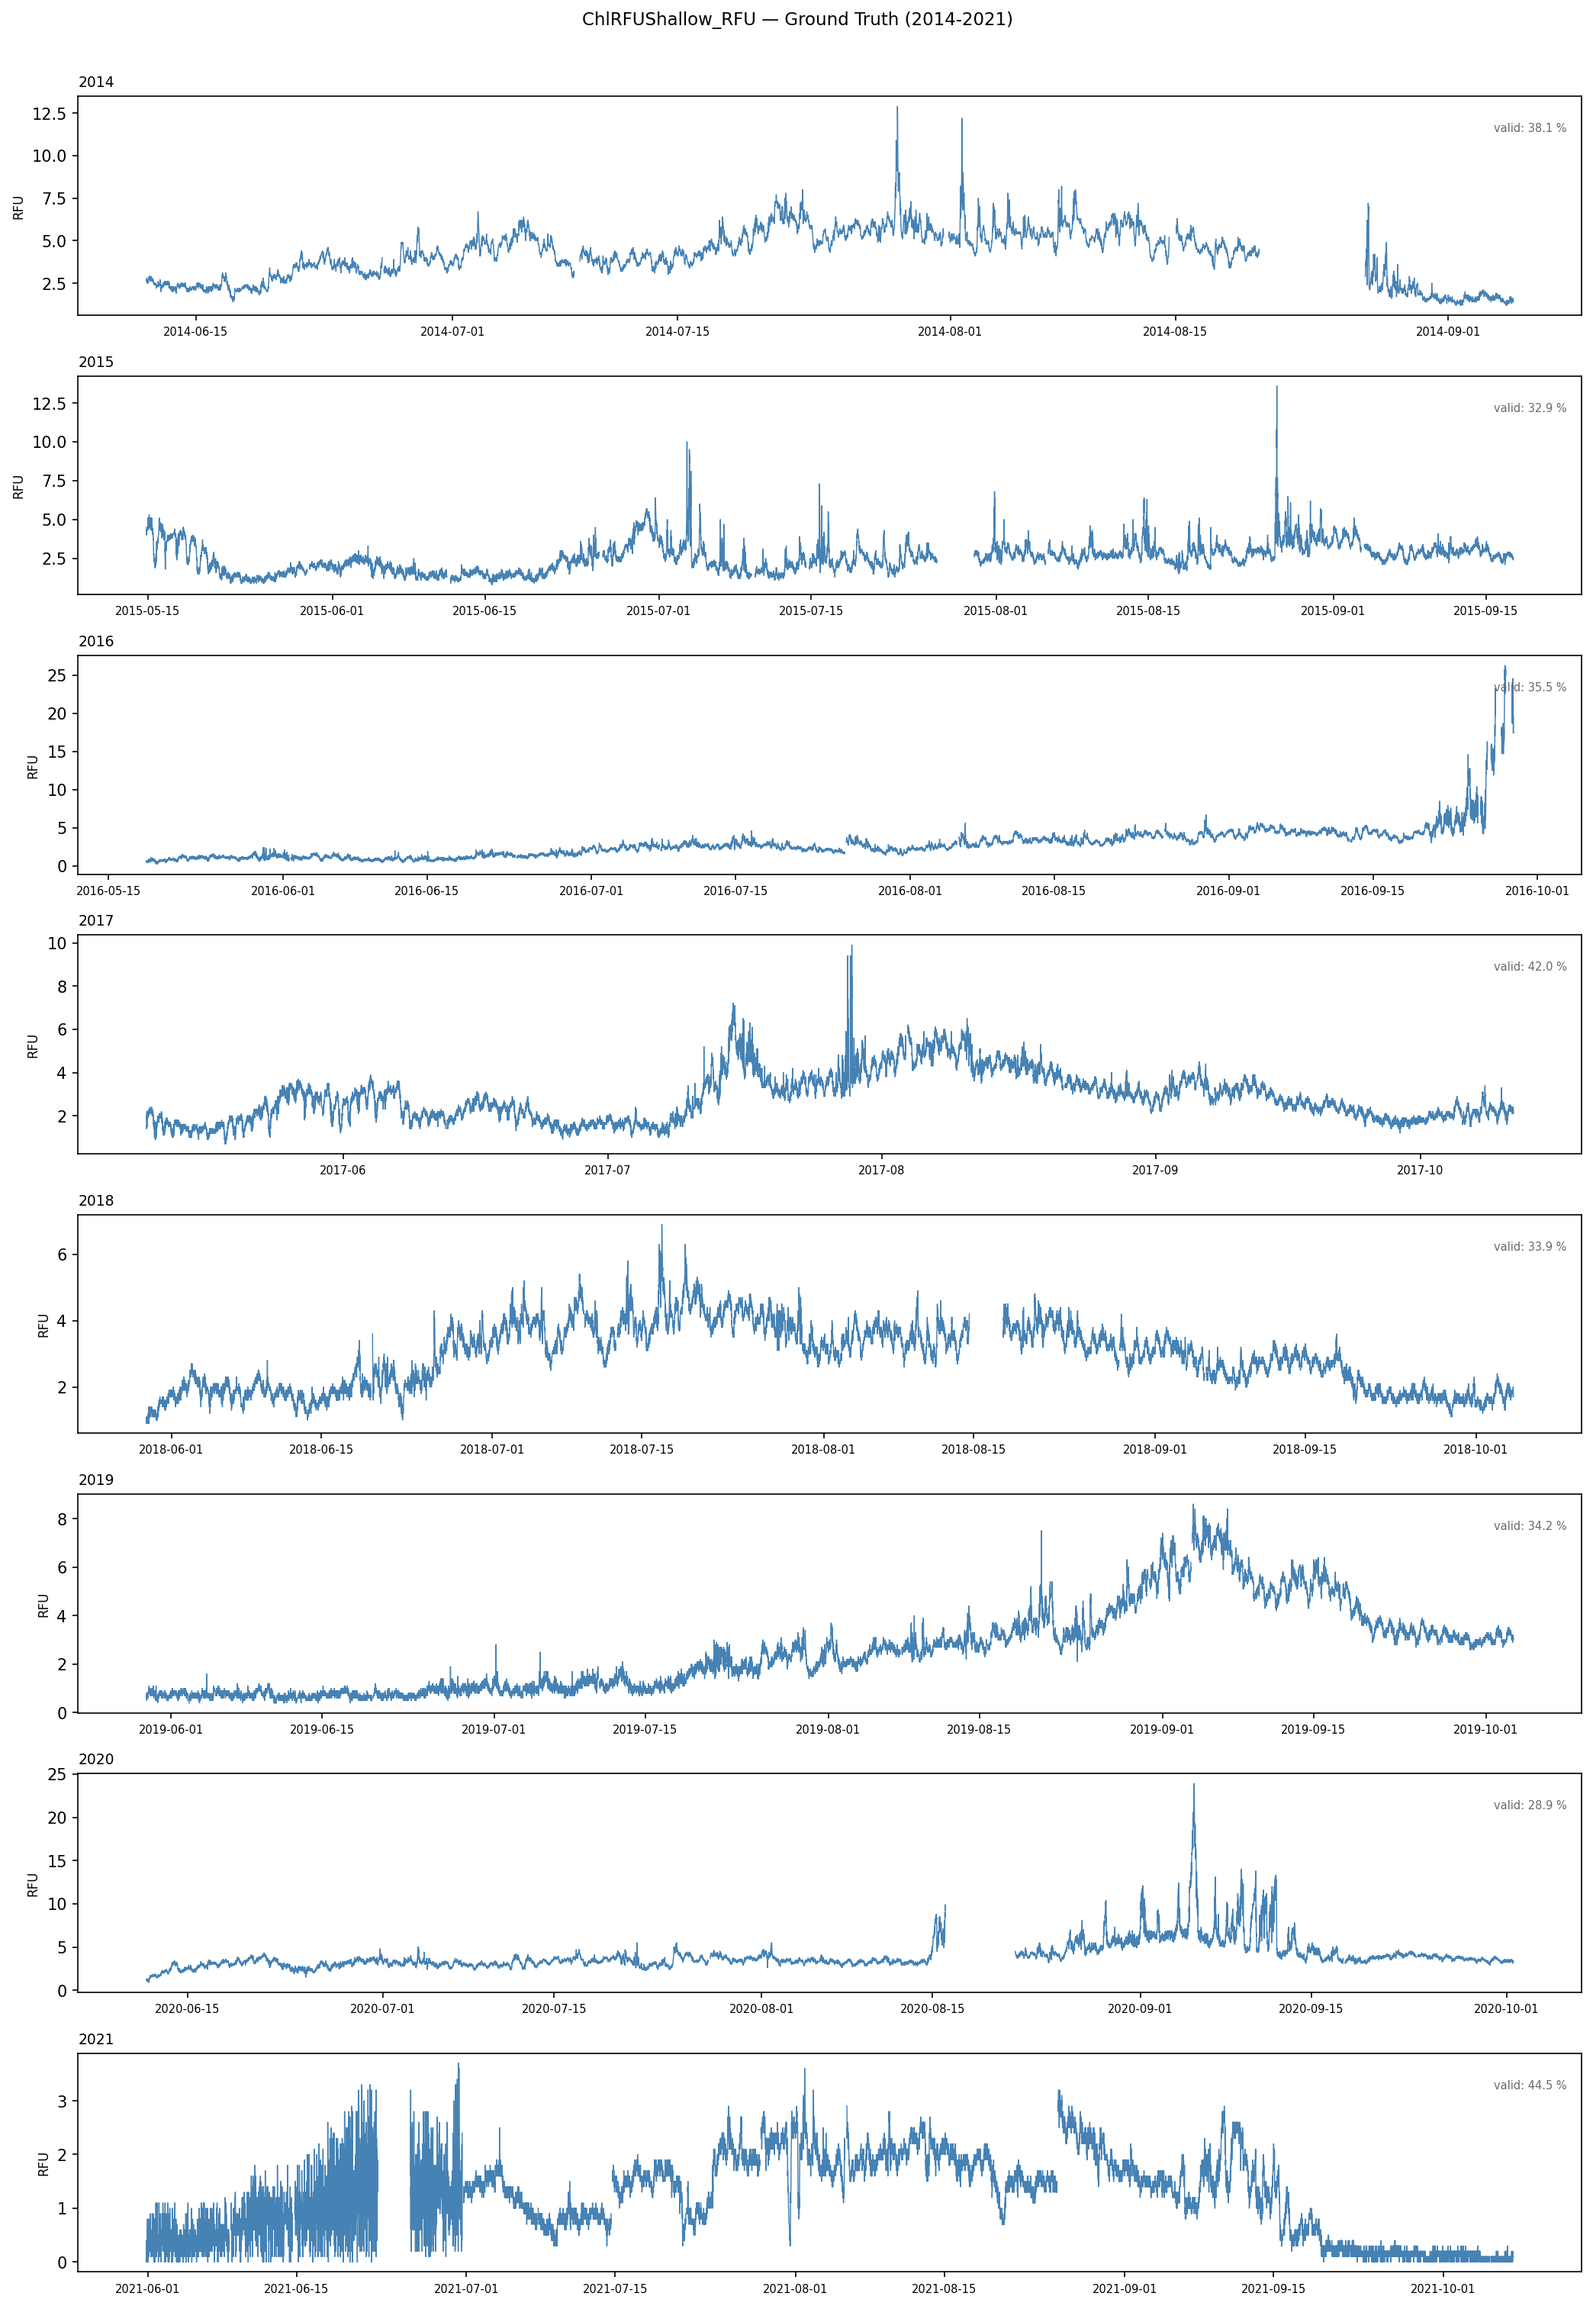
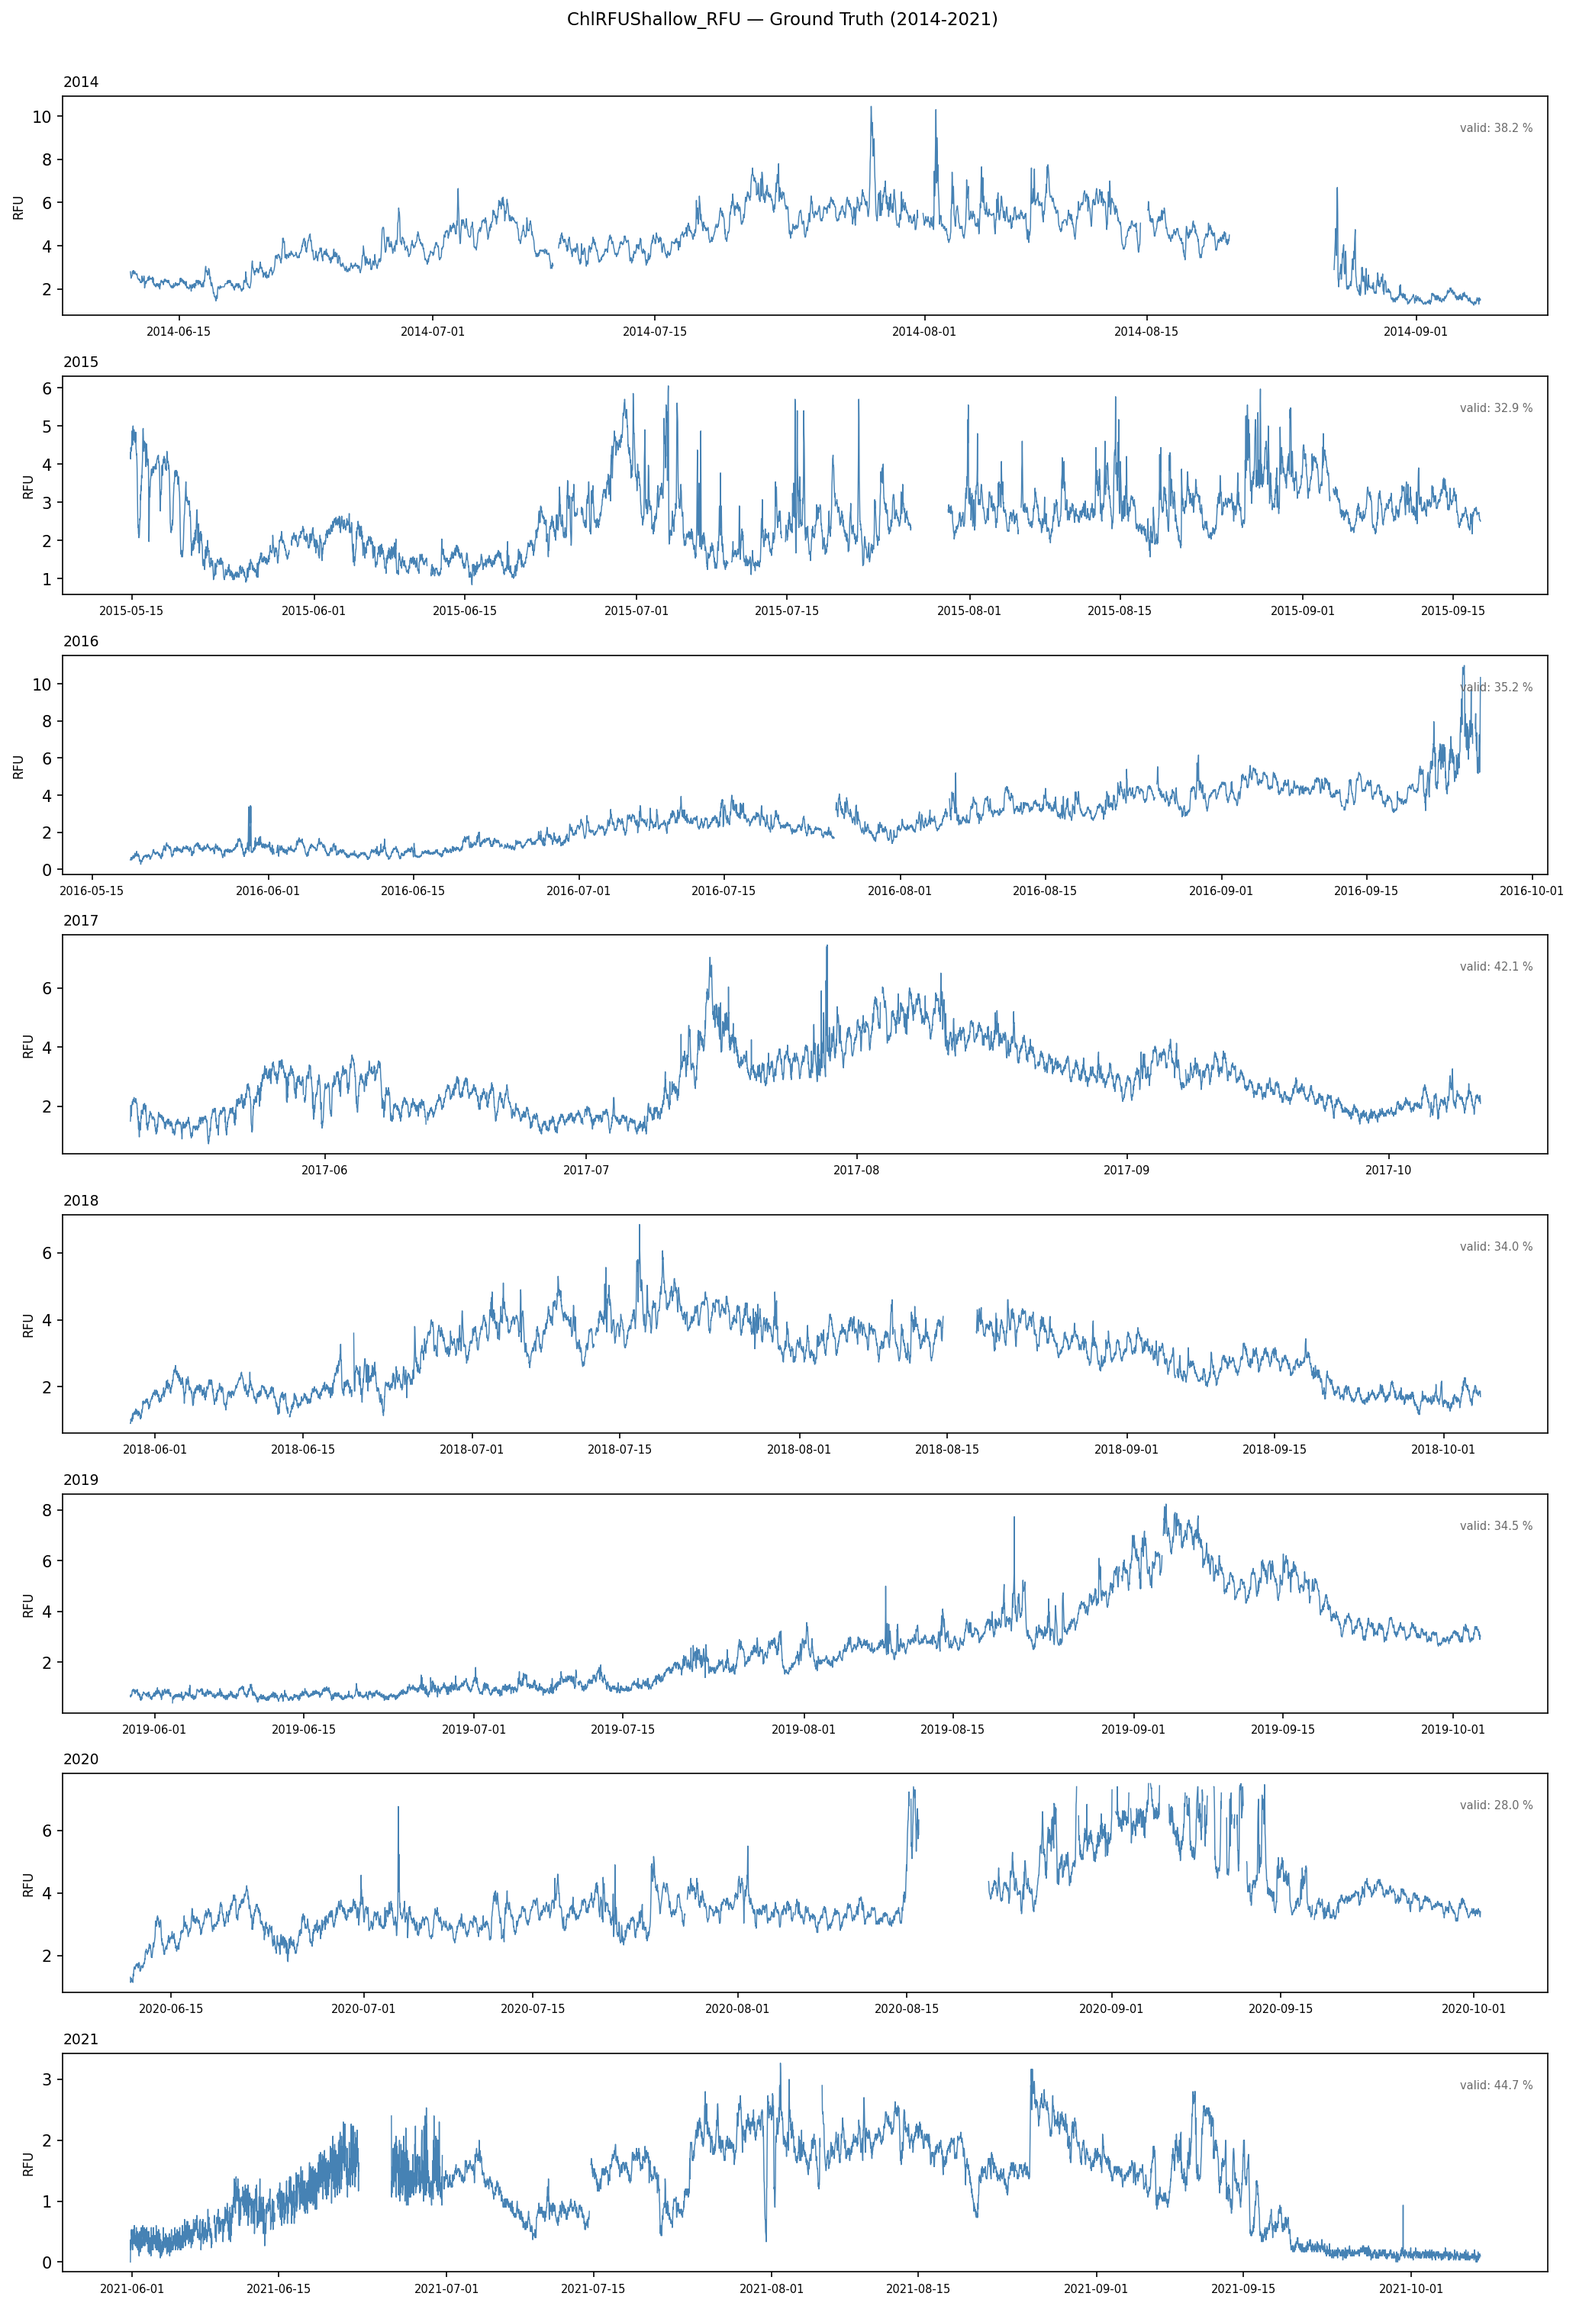
feat: 30min resample, datetime normalization, Tukey per-year outlier removal
Agent-Logs-Url: https://github.com/gh05t10/PFE/sessions/45916e45-1d69-41aa-b8f7-db60501cfbaf

diff --git a/data_preprocessing.py b/data_preprocessing.py
@@ -8,16 +8,19 @@ which serves as ground-truth for downstream forecasting models.
 Pipeline steps
 --------------
 1. Load each annual CSV (2014-2021) and concatenate into one DataFrame.
+   Normalize DateTime: strip any timezone offset, floor to the minute, and
+   ensure a uniform ``YYYY-MM-DD HH:MM:SS`` format across all years.
 2. Apply dataset quality flags:
    - B7 (biofouling spike / decrease after site visit) → ``ChlRFUShallow_RFU`` set to NaN
    - C  (faulty / unrealistic data)                    → ``ChlRFUShallow_RFU`` set to NaN
    - M  (missing)                                      → value is already NaN in source
 3. Physical-range validation: values < 0 → NaN (fluorescence cannot be negative).
 4. Export per-year preprocessed CSVs preserving all original columns.
-5. Statistical outlier removal using a rolling 24-hour IQR upper fence (k = 4.5),
-   targeting isolated spikes that were not caught by the quality flags.
-6. Resample the combined series to a regular 10-minute grid (mean aggregation).
-7. Linear interpolation of short gaps (≤ 2 h = 12 consecutive missing 10-min bins).
+5. Tukey outlier removal computed per deployment year:
+   lower fence = Q1 − k × IQR, upper fence = Q3 + k × IQR (k = 3.0 "far-out").
+   Per-year computation preserves genuine inter-annual bloom variability.
+6. Resample the combined series to a regular 30-minute grid (mean aggregation).
+7. Linear interpolation of short gaps (≤ 2 h = 4 consecutive missing 30-min bins).
    Longer gaps remain NaN to preserve temporal structure for the forecasting model.
 8. Export ``ChlRFUShallow_RFU_GroundTruth.csv`` — a single-column, regularly-sampled,
    gap-filled time series ready for use as model ground truth.
@@ -41,21 +44,42 @@ FLAG_COL = "ChlRFUShallow_RFU_Flag"
 # Quality flags that render the chlorophyll measurement invalid
 INVALID_FLAGS = {"B7", "C"}
 # Regular temporal resolution for the ground-truth grid
-RESAMPLE_FREQ = "10min"
+RESAMPLE_FREQ = "30min"
 # Maximum consecutive gap duration to fill by linear interpolation
 INTERP_MAX_GAP = pd.Timedelta("2h")
-# IQR fence multiplier for upper-tail outlier detection (conservative)
-OUTLIER_IQR_K = 4.5
-# Rolling time window used for outlier detection
-ROLLING_WINDOW = "24h"
+# Tukey "far-out" IQR fence multiplier (k=3.0 preserves genuine bloom events)
+TUKEY_K = 3.0
 
 
 # ─── step 1: load ─────────────────────────────────────────────────────────────
 
+def normalize_datetime(series: pd.Series) -> pd.Series:
+    """Return a timezone-naive, minute-floored DatetimeSeries in ISO format.
+
+    Ensures a uniform ``YYYY-MM-DD HH:MM:SS`` timestamp across all annual
+    files regardless of how each CSV originally recorded the DateTime column
+    (mixed timezones, fractional seconds, etc.).
+
+    Parameters
+    ----------
+    series : pd.Series
+        Raw DateTime column, already parsed by ``pd.read_csv``.
+
+    Returns
+    -------
+    pd.Series
+        Timezone-naive datetime64 series floored to the minute.
+    """
+    if series.dt.tz is not None:
+        series = series.dt.tz_convert("UTC").dt.tz_localize(None)
+    return series.dt.floor("min")
+
+
 def load_year(year: int, data_dir: str = DATA_DIR) -> pd.DataFrame:
-    """Load one annual CSV, parse DateTime, and tag with a Year column."""
+    """Load one annual CSV, parse DateTime, normalize it, and tag with a Year column."""
     path = os.path.join(data_dir, f"BPBuoyData_{year}_Cleaned.csv")
     df = pd.read_csv(path, parse_dates=["DateTime"], low_memory=False)
+    df["DateTime"] = normalize_datetime(df["DateTime"])
     df["Year"] = year
     return df
 
@@ -129,43 +153,57 @@ def apply_physical_bounds(
     return df, int(mask.sum())
 
 
-# ─── step 5: statistical outlier removal ─────────────────────────────────────
+# ─── step 5: Tukey outlier removal ───────────────────────────────────────────
 
-def remove_statistical_outliers(
+def remove_tukey_outliers(
     series: pd.Series,
-    window: str = ROLLING_WINDOW,
-    k: float = OUTLIER_IQR_K,
+    k: float = TUKEY_K,
 ) -> tuple:
-    """Remove isolated upper-tail spikes using a rolling IQR fence.
+    """Remove outliers using Tukey's fences computed per deployment year.
 
-    A rolling Q75 and IQR are computed over a *window*-wide time window.
-    Any value above Q75 + k × IQR is set to NaN.  Only the upper fence is
-    applied because chlorophyll cannot be negative and low values carry
-    physical meaning (e.g. night-time minima).
+    For each calendar year present in *series*, the first (Q1) and third (Q3)
+    quartiles and the interquartile range (IQR) are computed from valid
+    observations in that year only.  Any value outside the interval
+    ``[Q1 − k × IQR,  Q3 + k × IQR]`` is set to NaN.
+
+    Using ``k = 3.0`` ("far-out" criterion) is deliberately conservative so
+    that genuine inter-annual bloom events are preserved.  Applying the fences
+    per year rather than globally prevents high-bloom years from masking outliers
+    in low-bloom years, and vice-versa.
 
     Parameters
     ----------
     series : pd.Series
-        Time-indexed ChlRFU series (must have a DatetimeIndex).
-    window : str
-        Rolling time window string passed to ``pd.Series.rolling`` (default '24h').
+        Time-indexed ChlRFU series with a DatetimeIndex.
     k : float
-        IQR fence multiplier (default 4.5 — very conservative).
+        Tukey fence multiplier (default 3.0).
 
     Returns
     -------
     tuple[pd.Series, int]
-        Cleaned series and count of outliers removed.
+        Cleaned series and total count of outliers removed.
     """
     series = series.copy()
-    rolling = series.rolling(window, center=True, min_periods=3)
-    q75 = rolling.quantile(0.75)
-    q25 = rolling.quantile(0.25)
-    iqr = q75 - q25
-    upper_fence = q75 + k * iqr
-    outlier_mask = series > upper_fence
-    series.loc[outlier_mask] = np.nan
-    return series, int(outlier_mask.sum())
+    total_removed = 0
+
+    for year in series.index.year.unique():
+        yr_mask = series.index.year == year
+        yr_vals = series.loc[yr_mask]
+        valid = yr_vals.dropna()
+        if valid.empty:
+            continue
+        q1 = valid.quantile(0.25)
+        q3 = valid.quantile(0.75)
+        iqr = q3 - q1
+        lower = q1 - k * iqr
+        upper = q3 + k * iqr
+        outlier_mask = yr_mask & ((series < lower) | (series > upper))
+        n = int(outlier_mask.sum())
+        if n:
+            series.loc[outlier_mask] = np.nan
+            total_removed += n
+
+    return series, total_removed
 
 
 # ─── step 6: resample to regular 10-minute grid ───────────────────────────────
@@ -183,7 +221,7 @@ def resample_to_regular_grid(
     series : pd.Series
         Time-indexed series.
     freq : str
-        Target frequency string (default '10min').
+        Target frequency string (default '30min').
 
     Returns
     -------
@@ -387,7 +425,7 @@ def run_full_pipeline(
     -------
     pd.Series
         The final cleaned, regularly-sampled, gap-filled ground-truth series
-        with a DatetimeIndex at 10-minute resolution.
+        with a DatetimeIndex at 30-minute resolution.
     """
     print("=" * 60)
     print("ChlRFUShallow_RFU Ground-Truth Preprocessing Pipeline")
@@ -424,12 +462,12 @@ def run_full_pipeline(
     # ── Prepare time-indexed series for remaining steps ──────────
     chl = df_all.set_index("DateTime")[TARGET_COL].sort_index()
 
-    # ── 5. Statistical outlier removal ───────────────────────────
-    print(f"\n[5] Statistical outlier removal  (rolling {ROLLING_WINDOW} IQR, k={OUTLIER_IQR_K}) …")
-    chl, n_outliers = remove_statistical_outliers(chl)
-    print(f"    {n_outliers:,} statistical outliers removed.")
+    # ── 5. Tukey outlier removal ─────────────────────────────────
+    print(f"\n[5] Tukey outlier removal  (per-year fences, k={TUKEY_K}) …")
+    chl, n_outliers = remove_tukey_outliers(chl)
+    print(f"    {n_outliers:,} outliers removed.")
 
-    # ── 6. Resample to regular 10-minute grid ────────────────────
+    # ── 6. Resample to regular 30-minute grid ────────────────────
     print(f"\n[6] Resampling to {RESAMPLE_FREQ} regular grid …")
     chl = resample_to_regular_grid(chl)
     n_missing = int(chl.isna().sum())
